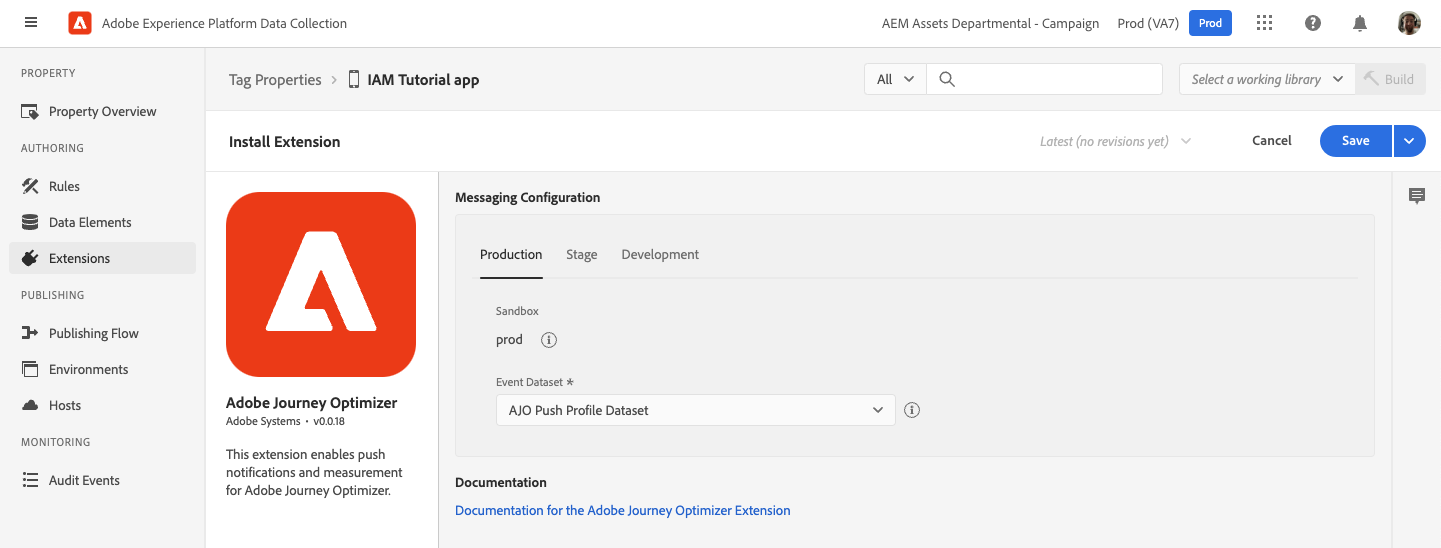
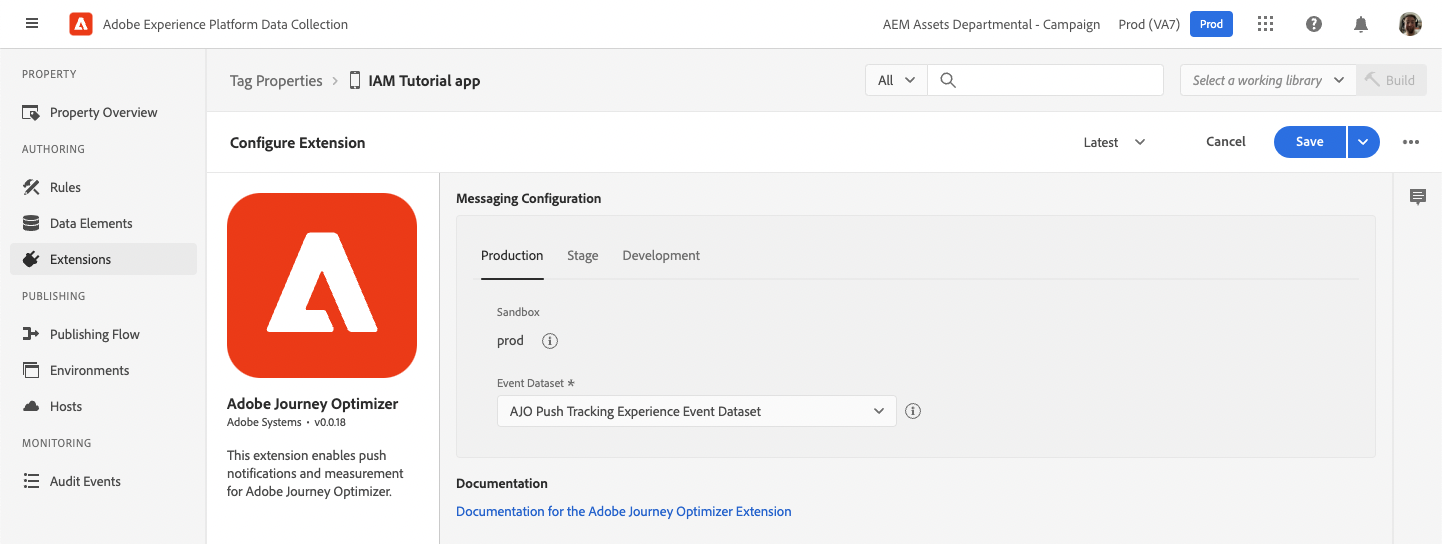
-tutorial progress

diff --git a/docs/tutorials/app/iam-tutorial.md b/docs/tutorials/app/iam-tutorial.md
@@ -1,99 +1,62 @@
-# Optimize Tutorial: Fetch and track Target Offers
+# Using the Tutorial App to trigger the in-app message
 
-## Getting Started
+### Getting Started
 
-Follow the steps below to download the Optimize Tutorial Starter App from the [Optimize GitHub repository](https://github.com/adobe/aepsdk-optimize-ios).
+Follow the steps below to download the InappTutorialApp from the [Messaging GitHub repository](https://github.com/adobe/aepsdk-messaging-ios).
 
-1. Navigate to the GitHub repository using the URL https://github.com/adobe/aepsdk-optimize-ios/tree/optimize-target-tutorial.
+1. Navigate to the GitHub repository using the URL https://github.com/adobe/aepsdk-messaging-ios/tree/messaging-tutorials.
 
 2. Click on **Code (1)** then select **Download ZIP (2)** from the pop-up dialog.
 
-| ![Optimize Extension Code](../../assets/optimize-github-code.png?raw=true) |
+| ![Messaging Extension Code](assets/messaging-github-code.png?raw=true) |
 | :---: |
-| **Optimize GitHub Code** |
+| **Messaging Extension Code** |
 
-3. Copy the `aepsdk-optimize-ios-optimize-target-tutorial.zip` file from Downloads directory to another appropriate location. For example, your home directory
+> [!NOTE]
+> Steps 3-6 in this section include commands you can run from your favorite Terminal app.  
 
-**Command-line command**
-```text
-mv ~/Downloads/aepsdk-optimize-ios-optimize-target-tutorial.zip ~/
+3. Copy the `aepsdk-messaging-ios-messaging-tutorials.zip` file from your `Downloads` directory to another appropriate location. For example, your home directory
+
+```
+mv ~/Downloads/aepsdk-messaging-ios-messaging-tutorials.zip ~/
 ```
 
 4. Unzip the file in the target location.
 
-**Command-line command**
-```text
+```
 cd ~/
-unzip aepsdk-optimize-ios-optimize-target-tutorial.zip
+unzip aepsdk-messaging-ios-messaging-tutorials.zip
 ```
 
-5. Change directory to the `OptimizeTutorialStarterApp`
+5. Change directory to the `InappTutorialApp-Start`
 
-**Command-line command**
-```text
-cd aepsdk-optimize-ios-optimize-target-tutorial/docs/tutorials/OptimizeTutotialStarterApp
+```
+cd aepsdk-messaging-ios-messaging-tutorials/docs/tutorials/InappTutorialApp-Start
 ```
 
-6. Open Xcode workspace file `OptimizeTutorialStarterApp.xcworkspace` in Xcode.
+6. Open Xcode workspace file `InappTutorialApp.xcworkspace` in Xcode.
 
-**Command-line command**
-```text
-open OptimizeTutorialStarterApp.xcworkspace
+```
+open InappTutorialApp.xcworkspace
 ```
 
-## Install AEPOptimize SDK Extension in your mobile application
+### Install AEPMessaging SDK Extension in your mobile application
 
-Follow the steps in [Install SDK Extensions guide](https://opensource.adobe.com/aepsdk-optimize-ios/#/tutorials/mobile-app/install-sdk-extensions) to install AEPOptimize SDK extension and its dependencies in your mobile application.
+Follow the steps in [Install SDK Extensions guide](../getting-started/install-sdk-extensions.md) to install the AEPMessaging SDK extension and its dependencies in your mobile application.
 
-For this tutorial, the `OptimizeTutorialStarterApp` uses [CocoaPods](https://guides.cocoapods.org/using/getting-started.html) for dependency management. The `Podfile` is already integrated in the workspace and the pod dependencies are installed. Verify `Podfile.lock` to inspect the dependency versions.
+For this tutorial, the `InappTutorialApp` uses [CocoaPods](https://guides.cocoapods.org/using/getting-started.html) for dependency management. The `Podfile` is already integrated in the workspace and the pod dependencies are installed. Verify `Podfile.lock` to inspect the dependency versions.
 
-## Initialize the mobile SDK
+### Initialize the mobile SDK
 
-Follow the steps in [Initialize SDK guide](https://opensource.adobe.com/aepsdk-optimize-ios/#/tutorials/mobile-app/init-sdk) to initialize the Experience Platform mobile SDK by registering the SDK extensions with `Mobile Core`.
+Follow the steps in [Initialize SDK guide](../getting-started/init-sdk.md) to initialize the Experience Platform mobile SDK by registering the SDK extensions with `Mobile Core`.
 
-For this tutorial, initlization code is already implemented in `OptimizeTutorialStarterApp`.
+For this tutorial, initlization code is already implemented in `InappTutorialApp`.
 
-## Enable Optimize API implementation code
+### Run the mobile application
 
-Follow the steps below to enable the SDK implementation code:
+Follow the steps below to run the `InappTutorialApp` app:
 
-1. In Xcode, expand `OptimizeTutorialStarterApp` project. You will see all the `.swift` source files in `OptimizeTutorialStarterApp` folder. Select `AppDelegate.swift` file and provide your `DATA_COLLECTION_ENVIRONMENT_FILE_ID` value. For more details, see [Getting the Environment File ID guide](https://opensource.adobe.com/aepsdk-optimize-ios/#/tutorials/setup/create-tag-property?id=getting-the-environment-file-id).
-
-| ![AppDelegate - Configure Data Collection Environment File ID](../../assets/mobile-app-appdelegate.png?raw=true) |
-| :---: |
-| **AppDelegate - Configure Data Collection Environment File ID** |
-
-2. Click on the search icon (1) and enter text `Optimize Tutorial: CODE SECTION` in the search bar (2). It will list all the code implementation sections for this tutorial. The code sections follow the below format:
-
-```text
-/* Optimize Tutorial: CODE SECTION n/m BEGINS
-...
-Code Implementation
-...
-// Optimize Tutorial: CODE SECTION n ENDS */
-```
-where n = Current section number, m = Total number of sections in the mobile app
-
-| ![Mobile App - Code Implementation Search](../../assets/mobile-app-code-section-search.png?raw=true) |
-| :---: |
-| **Mobile App - Code Implementation Search** |
-
-
-3. Enable all the code sections sequentially, simply by adding a forward slash (/) at the beginning of every `/* Optimize Tutorial: CODE SECTION n/m BEGINS` statement:
-
-```text
-//* Optimize Tutorial: CODE SECTION n/m BEGINS
-```
-
-| ![Mobile App - Code Implementation Enable](../../assets/mobile-app-code-section-enable.png?raw=true) |
-| :---: |
-| **Mobile App - Code Implementation Enable** |
-
-## Run the mobile application
-
-Follow the steps below to run the `OptimizeTutorialStarterApp` app:
-
-1. Select the mobile app target **OptimizeTutorialStarterApp (1)** and the destination device e.g. iPhone 11 Pro Max simulator (2). Click on Play icon (3).
+1. Select the mobile app target **InappTutorialApp (1)** and the destination device e.g. iPhone 14 simulator (2). Click on Play icon (3).
 
 | ![Run Mobile App](../../assets/mobile-app-run.png?raw=true) |
 | :---: |

diff --git a/docs/tutorials/dc/create-tag-property.md b/docs/tutorials/dc/create-tag-property.md
@@ -10,11 +10,16 @@ In this section we will create a mobile property which contains the configuratio
 | :---: |
 | **Navigating to Data Collection** |
 
-3. Click the **New Property** (**1**) button in the top right.
+2. Select **Tags** in the left side navigation panel (**1**) then click the **New Property** (**2**) button in the top right.
 
 | ![Create new Tag Property](assets/tag-new.png?raw=true) |
 | :---: |
 | **Create new Tag Property** |
+
+3. Provide a name for the tag (**1**). 
+4. Ensure `Mobile` is selected for the **Platform** (**2**). 
+5. Ensure `Opted In` is selected for **Privacy** (**3**).
+6. Click the **Save** button (**4**).
 
 | ![Enter Tag Property details](assets/tag-name.png?raw=true) |
 | :---: |
@@ -22,29 +27,53 @@ In this section we will create a mobile property which contains the configuratio
 
 ### Configure extensions
 
+1. Select your tag from the list (**1**). If it's helpful, use the search field to make finding your tag easier (**2**). 
+
 | ![Select Tag Property](assets/tag-select.png?raw=true) |
 | :---: |
 | **Select Tag Property** |
+
+2. Select **Extensions** in the left side navigation panel (**1**).
 
 | ![Navigate to Extensions](assets/tag-nav-extensions.png?raw=true) |
 | :---: |
 | **Navigate to Extensions** |
 
+3. Click the **Catalog** tab near the tag name and scroll down until you see the **Identity** extension. Click the **Install** button (**1**).
+
+> [!NOTE]
+> No additional configuration is needed for the **Identity** extension.
+
 | ![Install Identity extension](assets/tag-extensions-identity.png?raw=true) |
 | :---: |
 | **Install Identity extension** |
+
+4. Click the **Catalog** tab near the tag name and scroll down until you see the **Adobe Experience Platform Edge Network** extension. Click the **Install** button (**1**).
 
 | ![Install Adobe Experience Platform Edge Network extension](assets/tag-extensions-aep.png?raw=true) |
 | :---: |
 | **Install Adobe Experience Platform Edge Network extension** |
 
+> [!Tip]
+> When configuring the Edge extension, we will be using the Datastream created in part three (3) of this tutorial.
+
+5. For each of the **Production**, **Staging**, and **Development** environments (**1**), ensure the sandbox matches the sandbox in which you created your Datastream.
+6. In the **Datastream** dropdown, select your Datastream (**2**).
+
 | ![Adobe Experience Platform Edge Network extension configuration](assets/tag-aep-details.png?raw=true) |
 | :---: |
 | **Adobe Experience Platform Edge Network extension configuration** |
 
+7. Click the **Catalog** tab near the tag name and scroll down until you see the **Adobe Journey Optimizer** extension. Click the **Install** button (**1**).
+
 | ![Install Adobe Journey Optimizer extension](assets/tag-extensions-ajo.png?raw=true) |
 | :---: |
 | **Install Adobe Journey Optimizer extension** |
+
+8. In the **Event Dataset** dropdown, select the **AJO Push Tracking Experience Event Dataset** Dataset (**1**).
+
+> [!NOTE]
+> This is the correct datastream for configuring Push Messaging in AJO, which will not be covered in this tutorial.
 
 | ![Adobe Journey Optimizer extension configuration](assets/tag-ajo-details.png?raw=true) |
 | :---: |
@@ -53,24 +82,44 @@ In this section we will create a mobile property which contains the configuratio
 
 ### Publish the Tag Property
 
+1. In the top right of the screen, click the dropdown that says **Select a working library** then click **Add library...** (**1**).
+
 | ![Create a Library](assets/tag-library-create.png?raw=true) |
 | :---: |
 | **Create a Library** |
+
+2. Name your new library (**1**).
+3. Select the **Development** environment (**2**).
+4. Click the **Add All Changed Resources** button at the bottom (**3**).
+5. Hit the **Save & Build to Development** button in the top right (**4**).
 
 | ![Configure Library](assets/tag-library-details.png?raw=true) |
 | :---: |
 | **Configure Library** |
 
-| ![Build the Library](assets/tag-library-build.png?raw=true) |
+6. When the library has completed building, the dot next to its name will turn green (**1**).
+
+| ![A successfully built Library](assets/tag-library-build.png?raw=true) |
 | :---: |
-| **Build the Library** |
+| **A successfully built Library** |
+
+7. Select **Environments** in the left side navigation panel (**1**).
+8. In the far right column of your **Development** environment, click the button in the **Install** column (**2**).
 
 | ![Navigate to Environments](assets/tag-environments.png?raw=true) |
 | :---: |
 | **Navigate to Environments** |
 
-| ![View install instructions](assets/tag-install-instructions.png?raw=true) |
+9. This screen shows installation instructions for your app based on the Tag Property's configuration. It includes:
+  - Your **Environment File ID** (**1**) which helps the SDK locate your remote configuration.
+  - Dependencies for your **Podfile** (**2**).
+  - Initialization code for your app (**3**).
+
+> [!NOTE]
+> For this tutorial, the provided app will already have these values in it. This step in the tutorial was for reference only.
+
+| ![View install instructions](assets/tag-install-instructions-ios.png?raw=true) |
 | :---: |
 | **View install instructions** |
 
-
+For the next part of the tutorial, we will show how to author an in-app message in **Adobe Journey Optimizer**.

diff --git a/docs/tutorials/ajo/create-iam.md b/docs/tutorials/ajo/create-iam.md
@@ -1,6 +1,8 @@
 # Create an in-app message
 
- Intro text here.
+ In this section we will create an in-app message in **Adobe Journey Optimizer**. This consists of creating the message, configuring the audience, and creating the message content.
+
+### Create the in-app message campaign
 
 1. Go to the [Adobe Experience Platform](https://experience.adobe.com/#/platform), using your Adobe ID credentials to log in if prompted.
 
@@ -16,28 +18,71 @@
 | :---: |
 | **Navigating to Campaigns** |
 
+4. Click the **Create campaign** button on the upper right of the screen (**1**).
+
 | ![Create a new Campaign](assets/ajo-create-campaign.png?raw=true) |
 | :---: |
 | **Create a new Campaign** |
+
+### Configure the audience and the message
+
+1. Check the box for `In-app message` and select the app surface you created earlier in this tutorial (**1**).
 
 | ![Create an in-app message](assets/ajo-create-iam.png?raw=true) |
 | :---: |
 | **Create an in-app message** |
 
+> [!NOTE]
+> For this example, we will show the message to everyone, every time an SDK call of `MobileCore.trackAction("50off", nil)` is made.
+
+2. Give your message a name (**1**).  This will help you identify your message from the list of campaigns.
+
+3. Ensure the `Show every time` radio button is selected (**2**).
+
+4. Configure the client side event trigger (**3**):
+
+    - In the **Mobile app trigger** dropdown, select `Custom Track Action Event`.
+
+    - In dropdown on the right, select `Equals`.
+
+    - In the **Value** text field, enter `50off`.
+
+5. Hit the **Edit content** button (**4**) to begin creating the message content.
+
 | ![Configure in-app message audience](assets/ajo-iam-triggers.png?raw=true) |
 | :---: |
 | **Configure in-app message audience** |
+
+6. In the **Message layout** section (**1**), click the **Modal** button.
+
+7. In the **Media** section (**2**), paste into the **Media URL** field the following image URL: `https://t4.ftcdn.net/jpg/00/63/83/29/360_F_63832907_SA64nRfoIU8qaPKDkcYT7Ax2T0eVFJDY.jpg`
+
+8. In the **Content** section (**3**), enter some values in for the **Header** and **Body** of the message. For this tutorial, we will thank our loyal customer and offer a discount on their next purchase.
+
+9. In the **Buttons** section (**4**), change the text of button.
+
+10. Hit the **<-** button (**5**) to go back to the previous screen.
 
 | ![Configure in-app message content](assets/ajo-iam-content.png?raw=true) |
 | :---: |
 | **Configure in-app message content** |
 
+11. Hit the **Review to activate** button (**1**).
+
+| ![Review to activate](assets/ajo-iam-triggers.png?raw=true) |
+| :---: |
+| **Review to activate** |
+
+12. This page shows a summary of all the configuration for the message.  Hit the **Activate** button in the top right (**1**).
+
 | ![Activate in-app message](assets/ajo-iam-review.png?raw=true) |
 | :---: |
 | **Activate in-app message** |
+
+13. In the Campaigns list, your new message should be visible.  It will take some time to activate, but eventually you should see a **Status** of `Live` for your message (**1**).
 
 | ![In-app message live in list of Campaigns](assets/ajo-iam-activated.png?raw=true) |
 | :---: |
 | **In-app message live in list of Campaigns** |
 
-https://t4.ftcdn.net/jpg/00/63/83/29/360_F_63832907_SA64nRfoIU8qaPKDkcYT7Ax2T0eVFJDY.jpg
+In the next section we will review the installation instructions for the SDK.

diff --git a/docs/tutorials/app/review-install.md b/docs/tutorials/app/review-install.md
@@ -1,14 +1,28 @@
 # Review SDK installation instructions
 
-In this section we will create a mobile property which contains the configuration settings for all AEP SDK extensions in your app.
+In this section is for reference only.  It covers how to get access to the **AEPMessaging** SDK extension that supports in-app messaging in AJO. 
 
-1. Navigate to the Data Collection UI by selecting the nine-dot menu in the top right (**1**), and selecting `Data Collection` (**2**).
+The screenshots taken in this section are from the [SDK documentation](https://developer.adobe.com/client-sdks/documentation/iam/setup/).
+
+> [!ATTENTION]
+> While the in-app messaging feature is still in BETA, the extension must be retrieved from the `staging` branch of the **AEPMessaging** GitHub repository.
+
+### Install the AEPMessaging extension
+
+To install the **AEPMessaging** beta SDK, use the following in your Cocoapods `Podfile`:
+
+    `pod 'AEPMessaging', :git => 'https://github.com/adobe/aepsdk-messaging-ios.git', :branch => 'staging'`
 
 | ![Installing the Messaging extension](assets/docs-install.png?raw=true) |
 | :---: |
 | **Installing the Messaging extension** |
 
-3. Click the **New Property** (**1**) button in the top right.
+### Register the AEPMessaging extension
+
+To initialize the **AEPMessaging** extension in your app, `import` it and include `Messaging.self` in your list of extensions.
+
+> [!NOTE]
+> When the AEPMessaging extension is registered by the Adobe AEP SDK, it will automatically attempt to fetch in-app messages for the device based on the app configuration.
 
 | ![Registering the Messaging extension](assets/docs-register.png?raw=true) |
 | :---: |

diff --git a/docs/tutorials/dc/create-datastream.md b/docs/tutorials/dc/create-datastream.md
@@ -36,10 +36,10 @@ With the datastream set up, data can be directed to its destination by adding se
 | :---: |
 | **Add Datastream Service** |
 
-2. From the **Service (required)** dropdown, select **Adobe Experience Platform** (**1**) and make sure it is enabled (**2**).
-3. From the `Event Dataset`dropdown, select the AJO Inbound dataset reviewed earlier in this tutorial (**3**).
-4. Ensure the **Edge Segmentation** and **Adobe Journey Optimizer** boxes (**4**) are checked.
-4. Hit the **Save** (**5**) button.
+2. From the **Service (required)** dropdown, select **Adobe Experience Platform** and make sure it is enabled (**1**).
+3. From the `Event Dataset`dropdown, select the AJO Inbound dataset reviewed earlier in this tutorial (**2**).
+4. Ensure the **Edge Segmentation** and **Adobe Journey Optimizer** boxes (**3**) are checked.
+4. Hit the **Save** (**4**) button.
 
 | ![Add Experience Platform to Datastream](assets/datastream-service-save.png?raw=true) |
 | :---: |

diff --git a/docs/tutorials/aep/ajo-schema.md b/docs/tutorials/aep/ajo-schema.md
@@ -24,7 +24,8 @@ At a high level, a schema is a definition for the structure of your data; what p
 
 5. Click on the `AJO Inbound Experience Event Schema` link from the list. (**2**)
 
-> Note: The **AJO Inbound Experience Event Schema** is automatically generated for you when Adobe Journey Optimizer is provisioned for your company.
+> [!NOTE]
+> The **AJO Inbound Experience Event Schema** is automatically generated for you when Adobe Journey Optimizer is provisioned for your company.
 
 | ![Selecting AJO Inbound Experience Event Schema](assets/aep-schema-select.png?raw=true) |
 | :---: |
